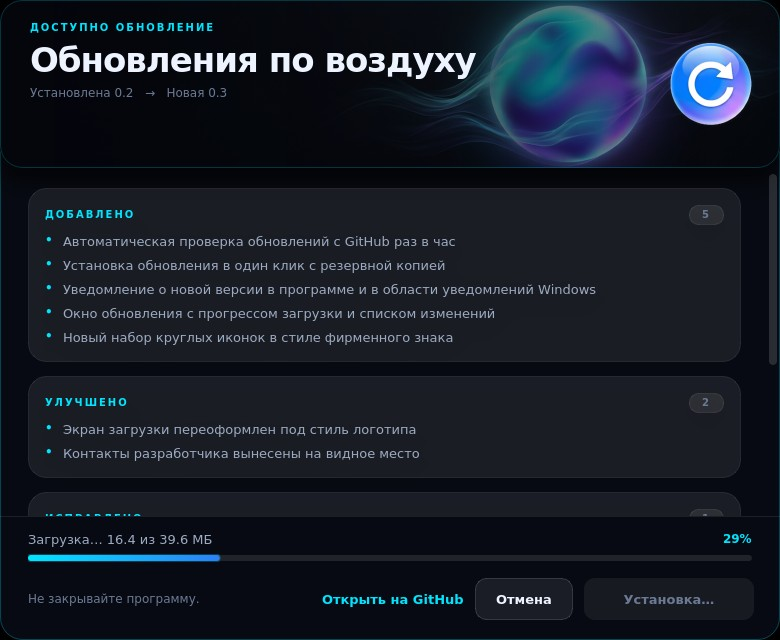
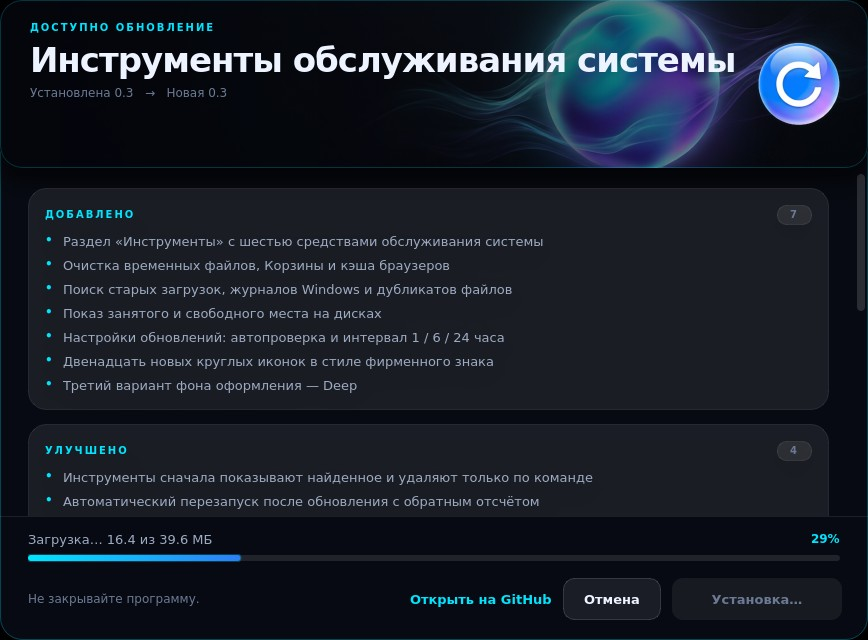
0.3: поддержка сгруппированного changes, финальные скриншоты и README

diff --git a/lifeos/update_ui.py b/lifeos/update_ui.py
@@ -148,9 +148,19 @@ class UpdateWindow(QWidget):
             body.addWidget(make_label("Что изменилось", "CardTitle"))
             body.addWidget(make_label(info.notes, "CardBody", wrap=True))
         else:
+            # changes принимается в двух формах: словарь групп
+            # {"added": [...]} или список {"type": ..., "text": ...}.
             grouped: dict[str, list[str]] = {}
-            for c in info.changes:
-                grouped.setdefault(c.get("type", "added"), []).append(c.get("text", ""))
+            if isinstance(info.changes, dict):
+                for key, texts in info.changes.items():
+                    grouped[key] = [str(t) for t in texts]
+            else:
+                for c in info.changes:
+                    if isinstance(c, dict):
+                        grouped.setdefault(
+                            c.get("type", "added"), []).append(c.get("text", ""))
+                    else:
+                        grouped.setdefault("added", []).append(str(c))
             for key in ("added", "improved", "fixed"):
                 items = grouped.get(key)
                 if not items:
